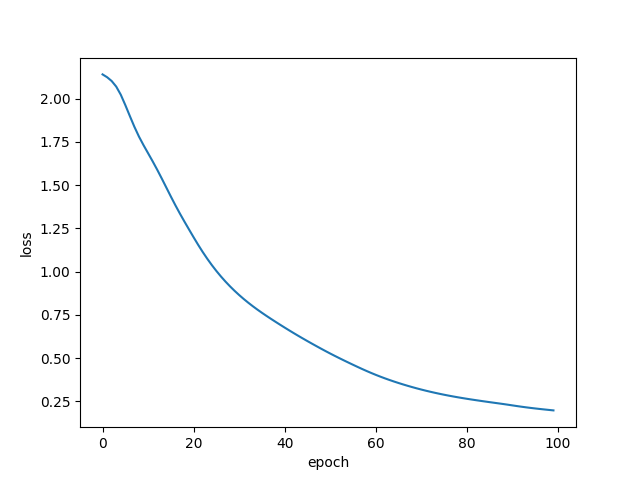
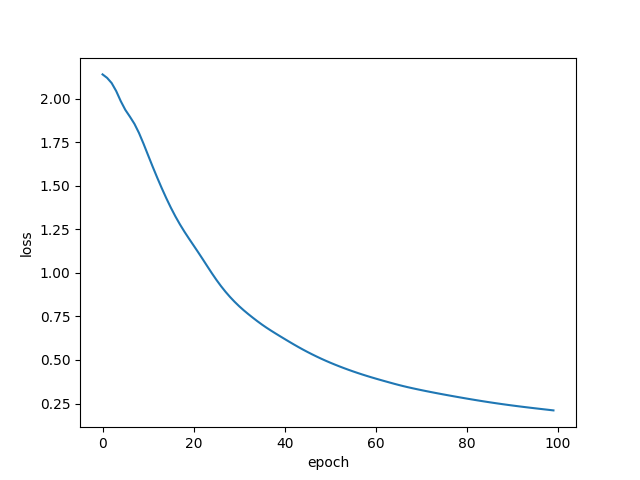
revert inserting vectorizer

diff --git a/SMDL/Day3/lessons/task4/main.py b/SMDL/Day3/lessons/task4/main.py
@@ -40,32 +40,32 @@ BOTTLENECK_UNITS = 6
 START_TOKEN = 'aaaa'
 END_TOKEN = 'zzzz'
 
+
+def get_vectorizer(texts):
+    vectorizer = TextVectorization()
+    vectorizer.adapt(texts)
+    return vectorizer
+
+
 src_delimited = [f'{START_TOKEN} {t} {END_TOKEN}' for t in english_text]
-src_vectorizer = TextVectorization()
-src_vectorizer.adapt(src_delimited)
-print('Source Vocabulary', src_vectorizer.get_vocabulary())
+src_vectorizer = get_vectorizer(src_delimited)
+src_vocab = src_vectorizer.get_vocabulary()
+print('Source Vocabulary', src_vocab)
+src_sequences = src_vectorizer(src_delimited)
 
 target_delimited = [f'{START_TOKEN} {t} {END_TOKEN}' for t in spanish_text]
-target_vectorizer = TextVectorization()
-target_vectorizer.adapt(target_delimited)
+target_vectorizer = get_vectorizer(target_delimited)
 target_vocab = target_vectorizer.get_vocabulary()
 print('Target Vocabulary', target_vocab)
 target_sequences = target_vectorizer(target_delimited)
 
-encoder = MyEncoder(src_vectorizer, embedding_dim=EMBEDDING_SIZE,
+encoder = MyEncoder(len(src_vocab), embedding_dim=EMBEDDING_SIZE,
                     enc_units=BOTTLENECK_UNITS,
                     batch_size=BATCH_SIZE)
-sample_hidden = encoder.initialize_hidden_state()
-sample_output, sample_hidden = encoder(src_delimited, sample_hidden)
-print(f'Encoder output shape: (batch size, sequence length, units) {sample_output.shape}')
 
 decoder = MyDecoder(len(target_vocab), embedding_dim=EMBEDDING_SIZE,
                     dec_units=BOTTLENECK_UNITS,
                     batch_size=BATCH_SIZE)
-sample_decoder_output, sample_decoder_hidden = decoder(tf.random.uniform((BATCH_SIZE, 1)),
-                                                       sample_hidden, sample_output)
-print(f'Decoder output shape: (batch_size, vocab size) {sample_decoder_output.shape}')
-
 
 # https://www.tensorflow.org/api_docs/python/tf/function
 # Compile the function into a Tensorflow graph
@@ -118,7 +118,7 @@ def train(epochs, batches_per_epoch, optimizer):
         # loop batches per epoch
         for batch in range(batches_per_epoch):
             # we are repeating the same target and source sequences in this toy example
-            batch_loss = train_step(src_delimited,
+            batch_loss = train_step(src_sequences,
                                     target_sequences,
                                     enc_hidden, optimizer)
             total_loss += batch_loss
@@ -140,12 +140,14 @@ if __name__ == '__main__':
     plt.title('learning curve')
     plt.show()
 
-    # save the model weights using the TF format for compatibility
-    encoder.save_weights('encoder_weights.tf', save_format='tf')
-    decoder.save_weights('decoder_weights.tf', save_format='tf')
+    # save the model weights
+    encoder.save_weights('encoder_weights.h5')
+    decoder.save_weights('decoder_weights.h5')
 
     # save the artifacts
-    artifacts = {'target_vocab': target_vectorizer.get_vocabulary(),
+    artifacts = {'src_vocab': src_vectorizer.get_vocabulary(),
+                 'src_seq_len': src_sequences.numpy().shape[1],
+                 'target_vocab': target_vectorizer.get_vocabulary(),
                  'target_seq_len': target_sequences.numpy().shape[1],
                  'start_token': START_TOKEN,
                  'end_token': END_TOKEN,
